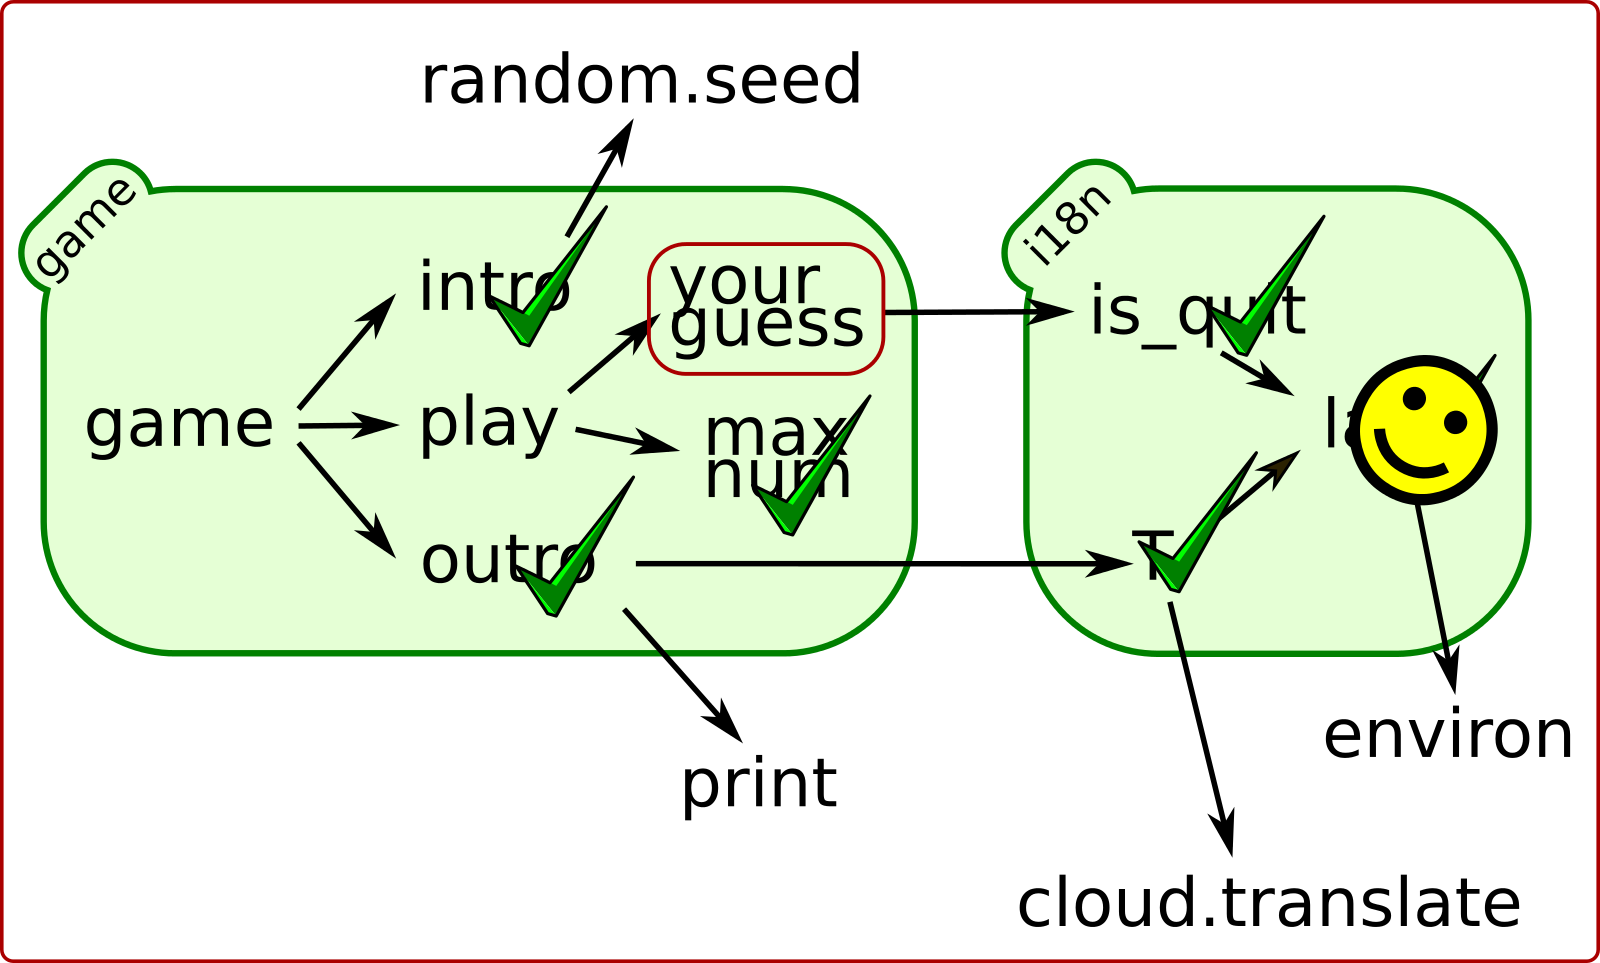
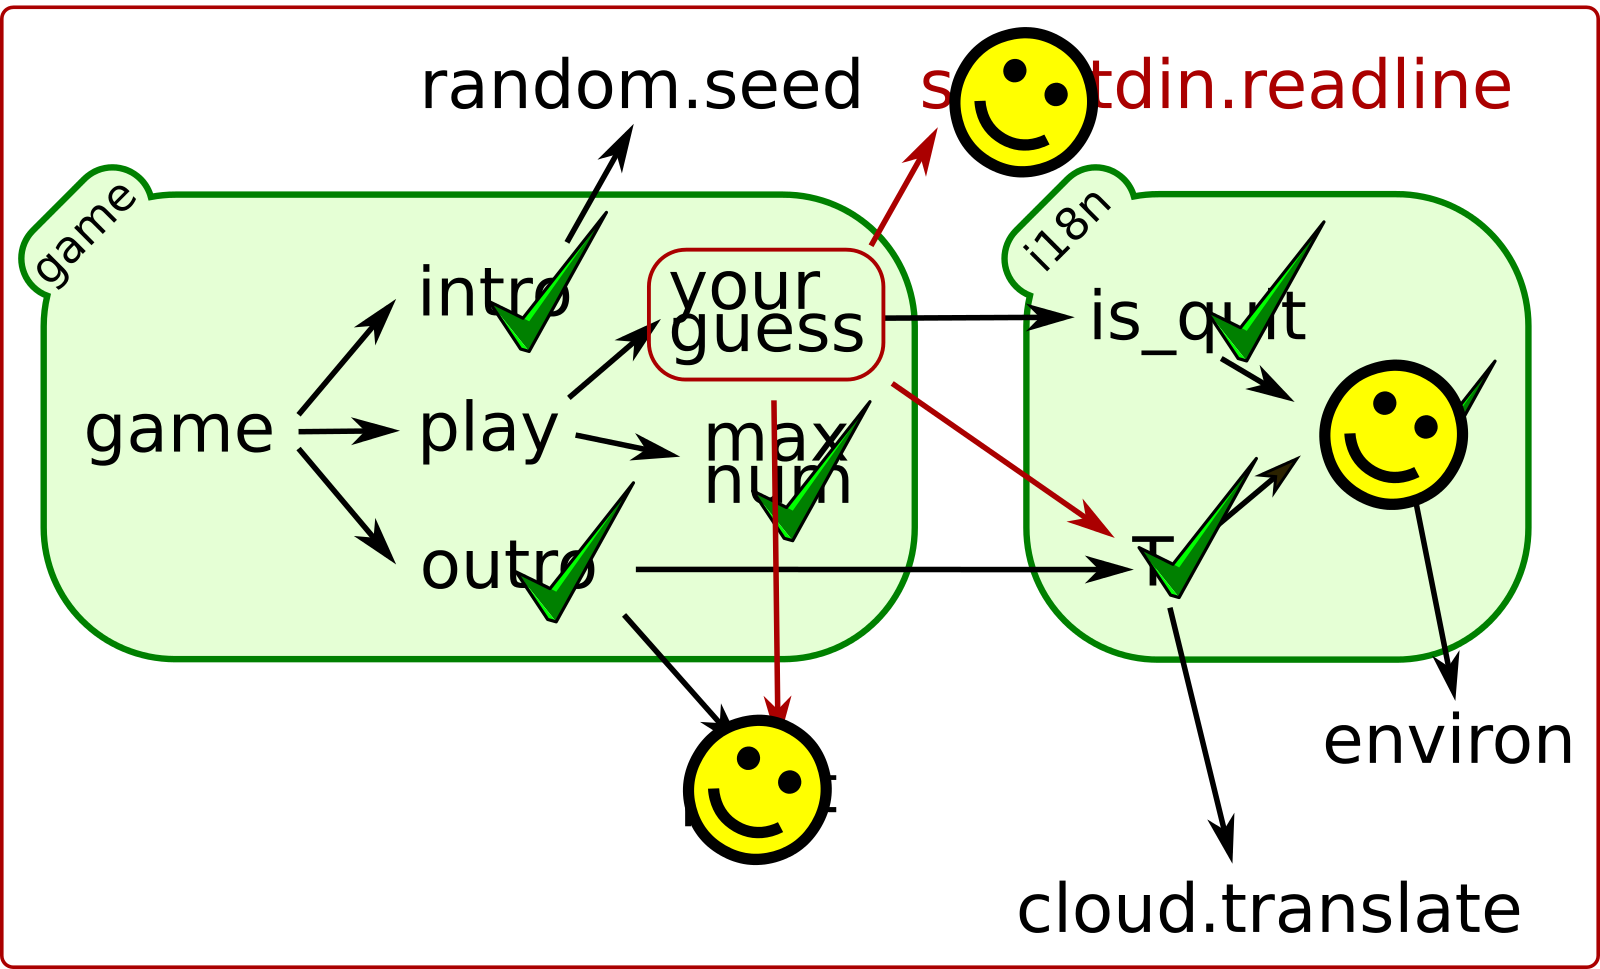
final slides

diff --git a/20170613-mock/code/ggee/tests/test_game.py b/20170613-mock/code/ggee/tests/test_game.py
@@ -69,14 +69,14 @@ def test_your_guess_num(mock_stdout, mock_readline, mock_lang):
 @mock.patch('guessing.i18n.lang', return_value='C')
 @mock.patch('sys.stdin.readline', side_effect=[
     'hello\n', '42\n'])
-@mock.patch('sys.stdout', new_callable=StringIO)
-def test_your_guess_2nd_try(mock_stdout, mock_readline, mock_lang):
+@mock.patch('guessing.game.print')
+def test_your_guess_2nd_try(mock_print, mock_readline, mock_lang):
     assert game.your_guess() == 42
-    assert mock_stdout.getvalue() == (
-        "Your guess is:\n"
-        "Sorry, I didn't get that\n"
-        "Your guess is:\n"
-    )
+    assert mock_print.call_args_list == [
+        mock.call("Your guess is:"),
+        mock.call("Sorry, I didn't get that"),
+        mock.call("Your guess is:"),
+    ]
 
 @mock.patch('guessing.i18n.lang', return_value='C')
 @mock.patch('sys.stdin.readline', side_effect=['stop\n'])
